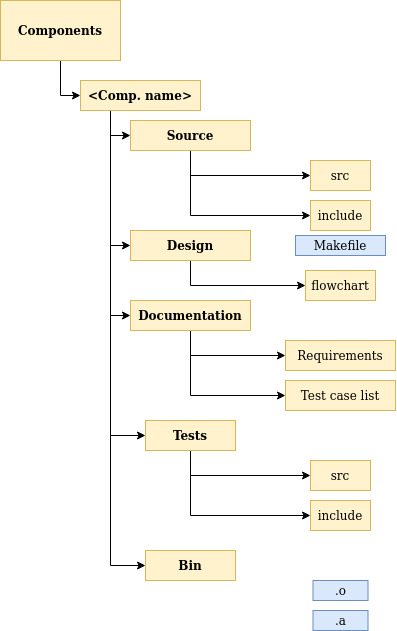
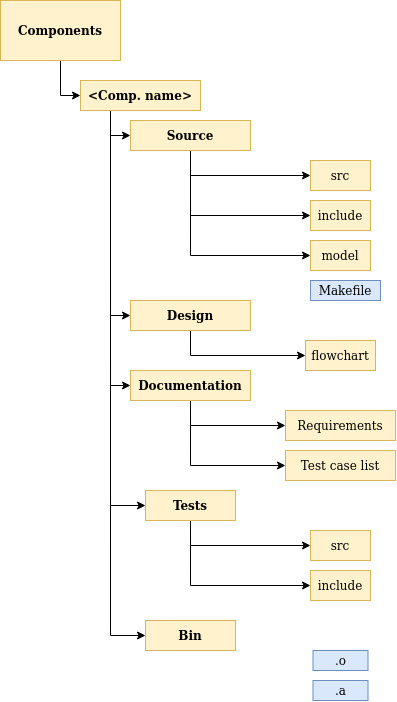
- Made 'upload' target in main Makefile a phony - Updated Component folder structure to include 'model' folder - Created HSI.h header file which will contain important information about the HW.

diff --git a/Components/HSI.h b/Components/HSI.h
@@ -1,0 +1,15 @@
+/***************************************************************************\
+** This file containt predefined values about everything related to the HW **
+\***************************************************************************/
+
+
+/*=======[ General ]=======*/
+#define CLK_FRQ (16000000UL) /* Hz */
+
+/*=======[ Temperature sensing ]=======*/
+#define TEMP_SENSOR_VALUE 	(1000U) /* ohms */
+#define TEMP_COEFF					() /* ohms/C° */ /*3,90802*10^3*/ /* TODO: convert to fixed point value */
+#define SELF_HEATING_COEFF	(0,4f)	/* K/mW  -- I^2*R = 1mW at 0 C° */ /* TODO: convert to fixed point value */
+
+#define TEMP_SENSOR_CURRENT	(1U) 		/* mA */
+
